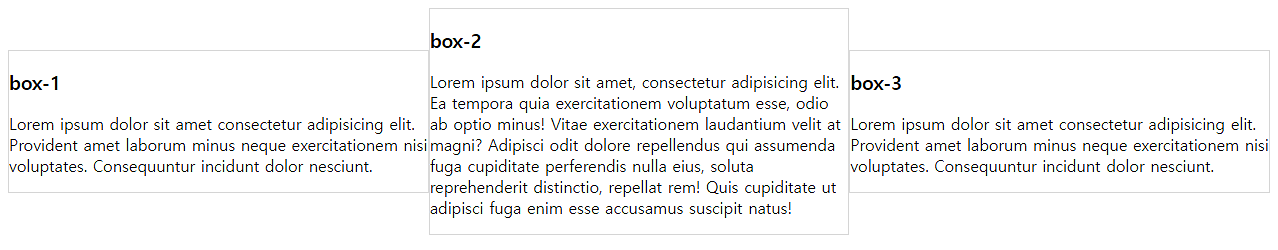
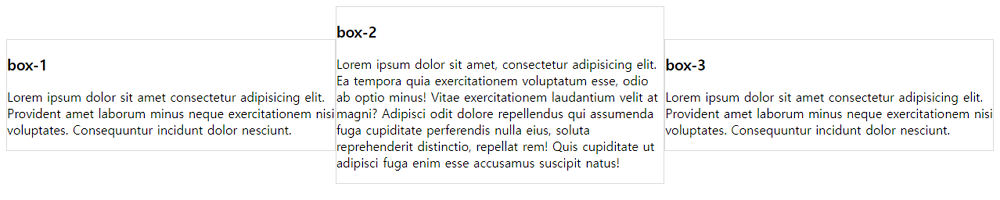
posts/css-flex-grid

diff --git a/_posts/css-flex-grid/2024-05-22-css-flex-grid.md b/_posts/css-flex-grid/2024-05-22-css-flex-grid.md
@@ -27,9 +27,8 @@ tag:
 ```html 
 <style>
     .container-1 {
-      display: flex; /* 부모요소 */
+      display: flex; /* flex.1 부모요소 */
       align-items: center; /* item의 세로방향 가운데 정렬 */
-
     }
     .container-1 > div {
       border: 1px solid #ddd;
@@ -81,9 +80,9 @@ tag:
 <style>
     .container-1 {
       display: flex; /* 부모요소 */
-      align-items: start; /* item 상단배치 */
-      align-items: end; /* item 하단배치 */
-      align-items: stretch; /* item의 최대 높이로 맞추기 */
+      align-items: start; /* flex.2 */
+      align-items: end; /* flex.3 */
+      align-items: stretch; /* flex.4 item의 최대 높이로 맞추기 */
 
     }
     .container-1 > div {
@@ -123,6 +122,139 @@ tag:
 <figure>
 <img src="/assets/img/flex-img-4.png" alt="display:flex">
 <figcaption>flex.4 align-items: stretch;</figcaption>
+</figure>
+
+<br>
+
+> flex 활용예시 3
+
+```html
+<style>
+    .container-1 {
+          display: flex; 
+          align-items: stretch;
+          align-items: flex-end; /* flex.8 */
+          justify-content: center; /* flex.5 */
+          justify-content: flex-start; /* flex.6 */
+          justify-content: flex-end; /* flex.7 */
+        }
+        .container-1 > div {
+          border: 1px solid #ddd;
+          max-width: 200px;
+        }
+    
+        .box-1 {
+          flex: 1; 
+        }
+        .box-2 {
+          flex: 1;
+        }
+        .box-3 {
+          flex: 1;
+        }
+  </style>
+```
+
+<br>
+
+> 결과 이미지
+
+<figure>
+<img src="/assets/img/flex-img-5.png" alt="display:flex">
+<figcaption>flex.5 justify-content: center;</figcaption>
+</figure>
+
+<br>
+
+<figure>
+<img src="/assets/img/flex-img-6.png" alt="display:flex">
+<figcaption>flex.6 justify-content: flex-start;</figcaption>
+</figure>
+
+<br>
+
+<figure>
+<img src="/assets/img/flex-img-7.png" alt="display:flex">
+<figcaption>flex.7 justify-content: flex-end;</figcaption>
+</figure>
+
+<br>
+
+<figure>
+<img src="/assets/img/flex-img-8.png" alt="display:flex">
+<figcaption>flex.8 align-items: flex-end; justify-content: flex-end;</figcaption>
+</figure>
+
+<br>
+
+
+> flex 활용예시 4
+
+```html
+<style>
+    .container-1 {
+          display: flex; 
+          flex-direction: column; /* flex.13 가로 -> 세로로 변경 */
+          align-items: center;
+          justify-content: space-around; /* flex.9 */
+          justify-content: space-between; /* flex.10 */
+          justify-content: space-evenly; /* flex.11 */
+        }
+        .container-1 > div {
+          border: 1px solid #ddd;
+          max-width: 200px;
+        }
+    
+        .box-1 {
+          flex: 1; 
+          order: 3; /* flex.12 순서를 임의로 변경하는 */
+        }
+        .box-2 {
+          flex: 1;
+          order: 1;
+        }
+        .box-3 {
+          flex: 1;
+          order: 2;
+        }
+  </style>
+```
+
+<br>
+
+> 결과 이미지
+
+<figure>
+<img src="/assets/img/flex-img-9.png" alt="display:flex">
+<figcaption>flex.9 justify-content: space-around;</figcaption>
+</figure>
+
+<br>
+
+<figure>
+<img src="/assets/img/flex-img-10.png" alt="display:flex">
+<figcaption>flex.10 justify-content: space-between;</figcaption>
+</figure>
+
+<br>
+
+<figure>
+<img src="/assets/img/flex-img-11.png" alt="display:flex">
+<figcaption>flex.11 justify-content: space-evenly;</figcaption>
+</figure>
+
+<br>
+
+<figure>
+<img src="/assets/img/flex-img-12.png" alt="display:flex">
+<figcaption>flex.12 order: n;</figcaption>
+</figure>
+
+<br>
+
+<figure>
+<img src="/assets/img/flex-img-13.png" alt="display:flex">
+<figcaption>flex.13 flex-direction: column;</figcaption>
 </figure>
 
 <br>
